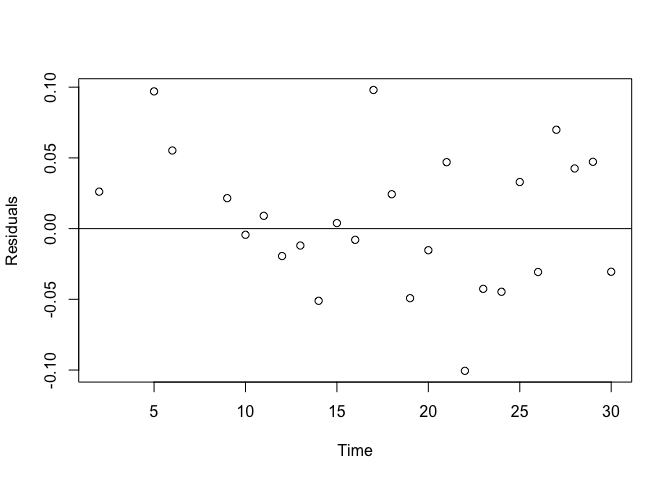
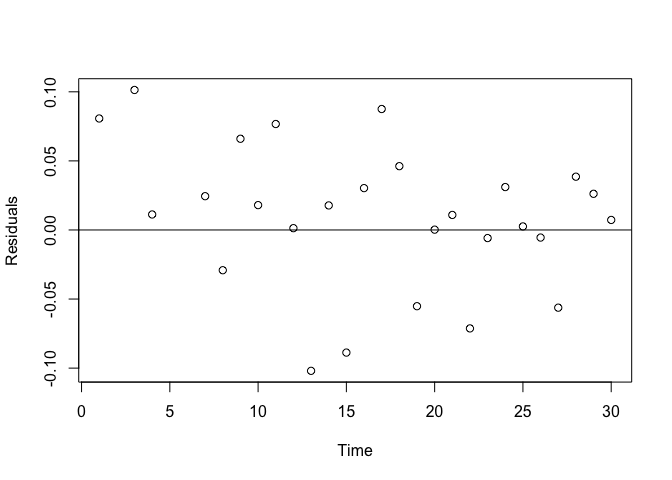
README updates

diff --git a/README.md b/README.md
@@ -39,7 +39,7 @@ column and take a look at the first few rows:
 <table>
 <colgroup>
 <col width="9%" />
-<col width="11%" />
+<col width="12%" />
 </colgroup>
 <thead>
 <tr class="header">
@@ -50,30 +50,32 @@ column and take a look at the first few rows:
 <tbody>
 <tr class="odd">
 <td align="center">1</td>
-<td align="center">-0.1017</td>
+<td align="center">0.08197</td>
 </tr>
 <tr class="even">
 <td align="center">2</td>
-<td align="center">0.0286</td>
+<td align="center">-0.002823</td>
 </tr>
 <tr class="odd">
 <td align="center">3</td>
-<td align="center">-0.08031</td>
+<td align="center">0.1046</td>
 </tr>
 <tr class="even">
 <td align="center">4</td>
-<td align="center">-0.04062</td>
+<td align="center">0.01643</td>
 </tr>
 <tr class="odd">
 <td align="center">5</td>
-<td align="center">0.1068</td>
+<td align="center">-0.02884</td>
 </tr>
 <tr class="even">
 <td align="center">6</td>
-<td align="center">0.07066</td>
+<td align="center">-0.02729</td>
 </tr>
 </tbody>
 </table>
+
+(let's pretend like negative values for OD600 are ok)
 
 Now, let's fit a logistic growth curve for this data set:
 
@@ -87,18 +89,18 @@ Information about the logistic fit is available in `parameters`:
 
     ## $A
     ##   Estimate Std. Error 
-    ## 1.01357079 0.01879774 
+    ## 1.01414055 0.01999552 
     ## 
     ## $mu
-    ##    Estimate  Std. Error 
-    ## 0.116220067 0.009291475 
+    ##   Estimate Std. Error 
+    ##  0.1194197  0.0101438 
     ## 
     ## $lambda
     ##   Estimate Std. Error 
-    ## 10.7315150  0.3872034 
+    ##  10.935282   0.400817 
     ## 
     ## $integral
-    ## [1] 15.10681
+    ## [1] 15.02724
 
 For this fit, the maximum growth value is 0.99848023
 (`lfit$parameters$A`), the maximum growth rate (the slope) is
